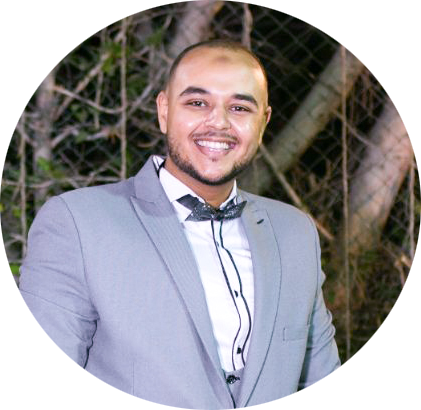
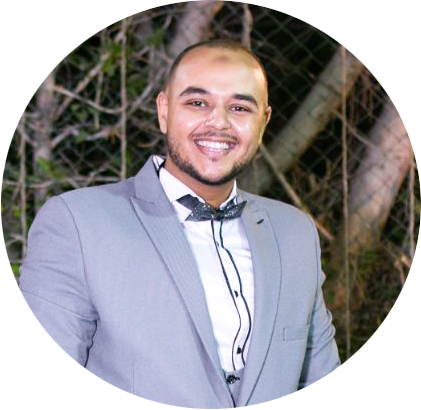
.

diff --git a/index.html b/index.html
@@ -76,7 +76,7 @@
                         </div>
                     </div>
                     <div class="home_handle">
-                        <img src="images/01.png" alt="" class="home_img">
+                        <img src="images/01.jpg" alt="" class="home_img">
                     </div>
                     <div class="home_social">
                         <a href="https://github.com/HassanFathy10" class="home_social-link" target="_blank" rel="noopener no-referrer">
